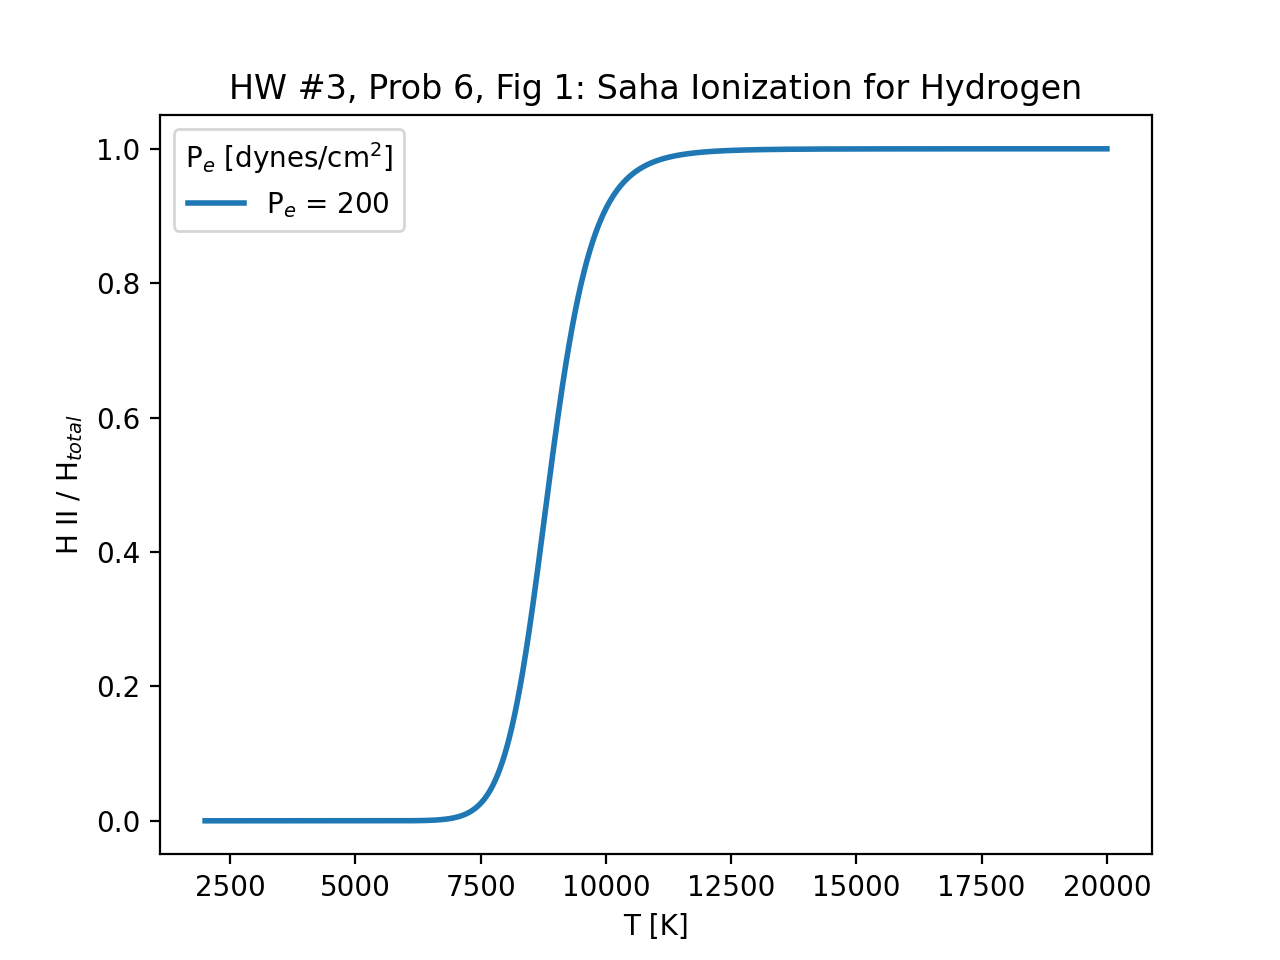
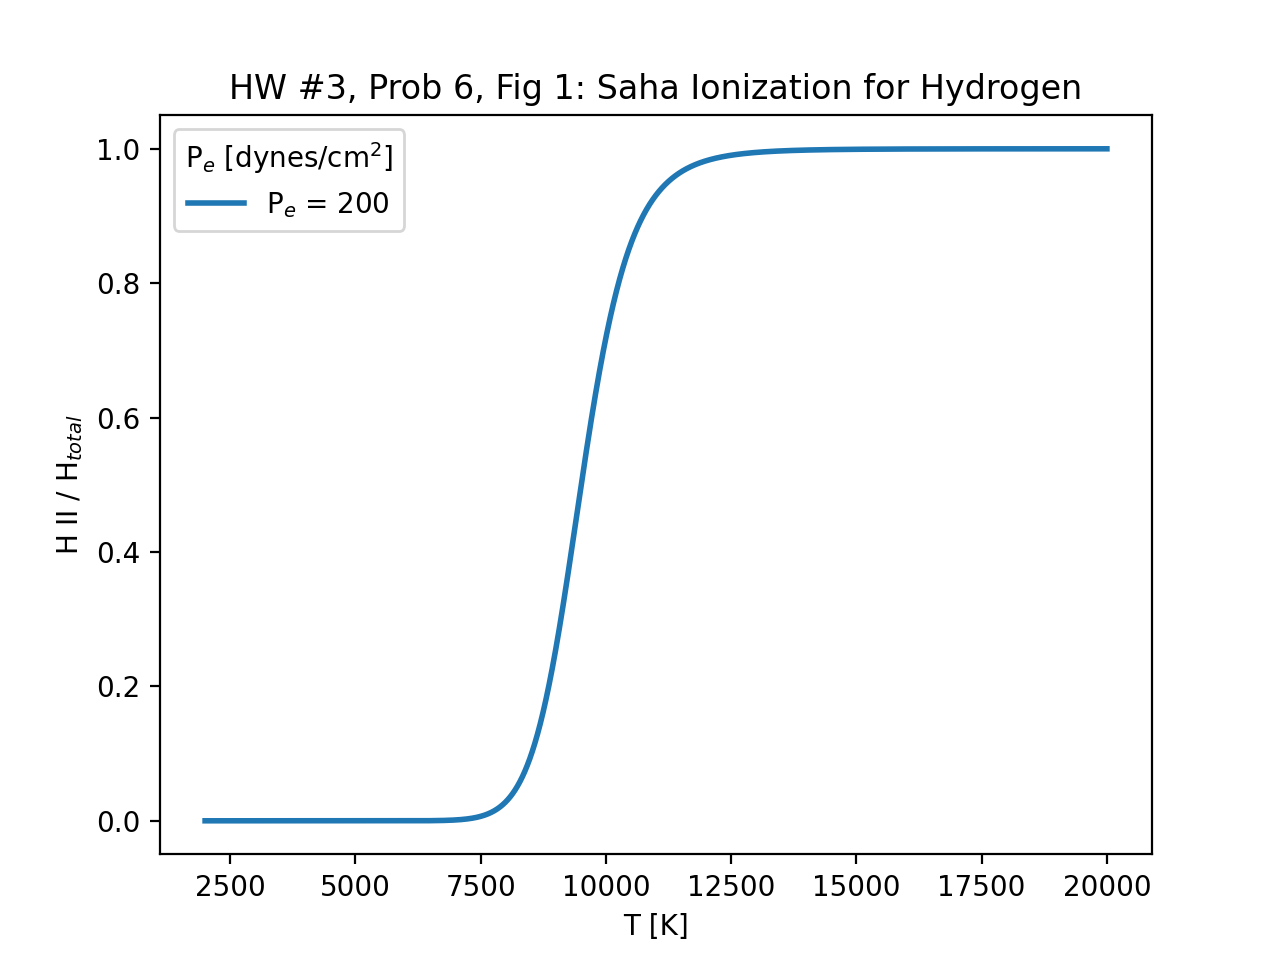
fixed saha

Changed region(s): [[0.375, 0.1562, 0.5938, 0.8438], [0.3438, 0.8438, 0.375, 0.875]]

diff --git a/HW3/saha.py b/HW3/saha.py
@@ -15,8 +15,8 @@ E_2 = E_1 / 2**2  # 1st excited state in eV, Xr+1
 Xi = -E_1 * ev_to_erg  # ionization from ground, in erg
 
 # Statistical weights
-g_ii = 2  # for H II
-g_i  = 1  # for H I
+g_ii = 1  # for H II
+g_i  = 2  # for H I
 
 
 # Functions
@@ -86,10 +86,10 @@ print(f'Ionization energy of hydrogen: {-E_1} eV, {Xi:.3e} erg')
 
 # b)
 T = np.linspace(2000, 20000, 100000)
-P_e = [200] # electron pressure in dynes/cm2 for MS star, n_e = P_e ./ (k .* T)
+P_e = 200 # electron pressure in dynes/cm2 for MS star, n_e = P_e ./ (k .* T)
 # Calculate the Saha ratio
-saha_ratio_1 = saha(T, P_e, g_i, g_ii)
-plot_ratio(fig_num=1, P_e_arr=P_e, T=T, ratio_arr=[saha_ratio_1])
+saha_ratio_1 = saha(T=T, P_e=P_e, g_r=g_i, g_r1=g_ii)
+plot_ratio(fig_num=1, P_e_arr=[P_e], T=T, ratio_arr=[saha_ratio_1])
 # Finding ratios at different temperatures
 ratio_T2000 = get_ratio(2000, T, saha_ratio_1)
 print(f'Ratio 2000K: {ratio_T2000}')
@@ -104,7 +104,7 @@ print(f'Temperature at which the ratio is 10: {T_ratio10} K')
 # c)
 P_e_arr = [20,200,2000]  # in dynes/cm2
 # Calculate the Saha ratios for each input P_e
-saha_ratio_2 = np.array([saha(T, P_e, g_i, g_ii) for P_e in P_e_arr])
+saha_ratio_2 = np.array([saha(T=T, P_e=P_e, g_r=g_i, g_r1=g_ii) for P_e in P_e_arr])
 # Plot
 plot_ratio(fig_num=2, P_e_arr=P_e_arr, T=T, ratio_arr=saha_ratio_2)
 
@@ -114,7 +114,7 @@ print('\nQuestion 6')
 # Calculate ratio for p_E = 200
 ratio_total = Ntotal_ratio(saha_ratio_1)
 # Plot
-plot_ratio(fig_num=1, P_e_arr=P_e, T=T, ratio_arr=[ratio_total], q_num=6)
+plot_ratio(fig_num=1, P_e_arr=[P_e], T=T, ratio_arr=[ratio_total], q_num=6)
 # Get ratio at T=8000 K
 ratio_T8000 = get_ratio(8000, T, ratio_total)
 print(f'At 8000K: {ratio_T8000*100:.2f} %')

diff --git a/HW3/question78.py b/HW3/question78.py
@@ -41,10 +41,10 @@ def lifetime(rate, mass, M_sun=M_sun):
 print('Question 7')
 # a)
 mass_diff = 4*m_H - m_He
-print(f'Mass difference between 4H and He: {mass_diff:.2e} g')
+print(f'Mass difference between 4H and He: {mass_diff:.2e}')
 # b)
 mass_ratio = mass_diff/(4*m_H)
-print(f'Ratio of mass diff and 4H: {mass_ratio:.2e} g')
+print(f'Ratio of mass diff and 4H: {mass_ratio:.2e}')
 # c)
 E_bind_erg = binding_energy(mass_diff).to(u.erg)
 E_bind_ev = E_bind_erg.to(u.eV)
